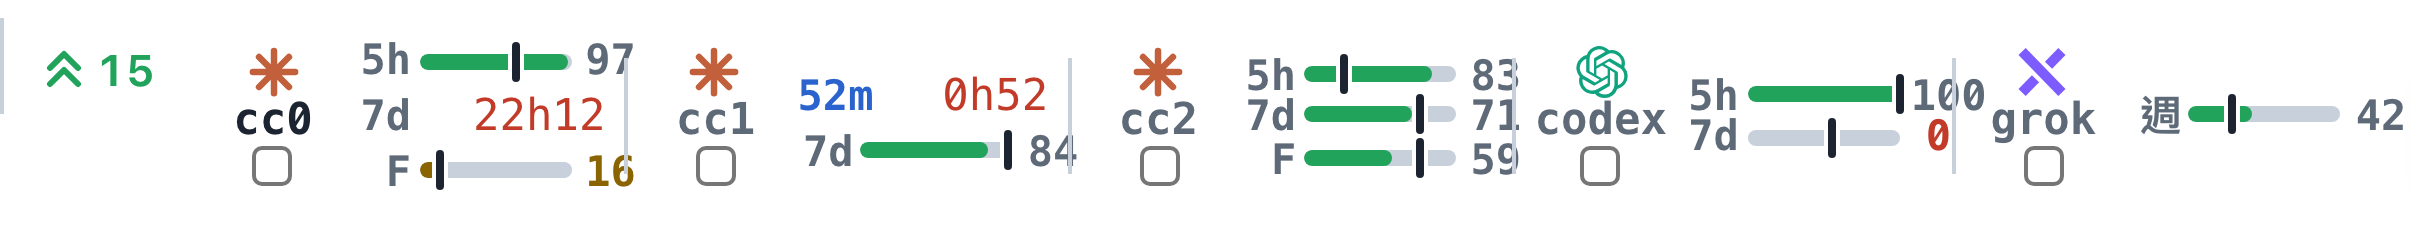
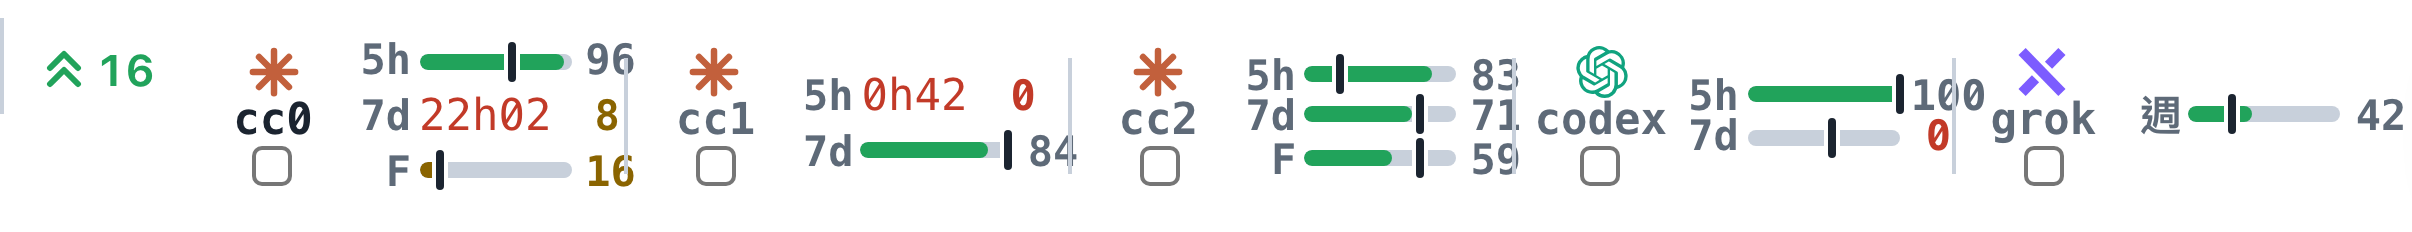
fix(web): 額度寫倒數的那一列拿掉條但百分比照印，窗口名不再重複寫剩幾分
2026-09-17 使用者：「雖然除去條，但也要數字」。倒數放條的位置、百分比留在最右那一欄（`7d 22h02 8`）；
那一列撐開欄寬，不往左蓋到窗口名。已經寫倒數時窗口名維持 5h，不再換成 `42m`（同一個時間寫兩次還擠在一起）。

diff --git a/web/src/components/QuotaStrip.tsx b/web/src/components/QuotaStrip.tsx
@@ -297,11 +297,20 @@ function Bar({
   mark: number | null
   markTitle?: string
   /** 快回來的那條：右邊的百分比換成倒數（2026-09-14 使用者）；這時**量表條也不畫**（2026-09-17 使用者：
-   *  剩不到 10% 的條又短又細，看不出東西，只要數字）。 */
+   *  剩不到 10% 的條又短又細，看不出東西，只要數字），百分比照樣印。 */
   instead?: ReactNode
 }) {
   const lv = levelOf({ low, critical })
-  if (instead) return <span className="quota-bar-row countdown">{instead}</span>
+  // 條拿掉、數字留著（同日使用者：「雖然除去條，但也要數字」）：倒數在前，百分比照舊留在最右那一欄。
+  if (instead)
+    return (
+      <span className="quota-bar-row countdown">
+        {instead}
+        <span className={`quota-bar-pct ${lv}${pct === null ? ' nodata' : ''}`} aria-hidden="true">
+          {pct === null ? '—' : fmtPct(pct)}
+        </span>
+      </span>
+    )
   return (
     <span className="quota-bar-row">
       <span className="quota-bar-wrap">
@@ -521,8 +530,9 @@ function Gauge({
           const span = WINDOW_MS[w.name]
           const mark = resetMark(w.resetsAt, span, now)
           const left = w.resetsAt ? new Date(w.resetsAt).getTime() - now : null
-          const soon = soonLabel(w.name, w.resetsAt, now)
           const back = resetBadge(w.pct, w.resetsAt, now, resetRule(w.name))
+          // 那一列已經寫倒數了，窗口名就別再換成剩幾分——同一個時間寫兩次，還會擠在一起。
+          const soon = back ? null : soonLabel(w.name, w.resetsAt, now)
           return (
             <span key={w.name} className="quota-window">
               <span className={`quota-window-name${soon ? ' soon' : ''}`} title={soon ? `5h 還有 ${soon} 重置` : undefined}>

diff --git a/web/src/components/quotaStrip.css b/web/src/components/quotaStrip.css
@@ -915,5 +915,7 @@
    倒數（「22h18」）靠右對齊到跟其他列的百分比同一欄。 */
 .quota-bar-row.countdown {
   justify-content: flex-end;
-  min-width: 0;
+  gap: 4px;
+  /* 倒數＋百分比比 38px 的條寬：讓這一列撐開欄寬，不要往左蓋到窗口名（7d／43m）。 */
+  min-width: max-content;
 }
